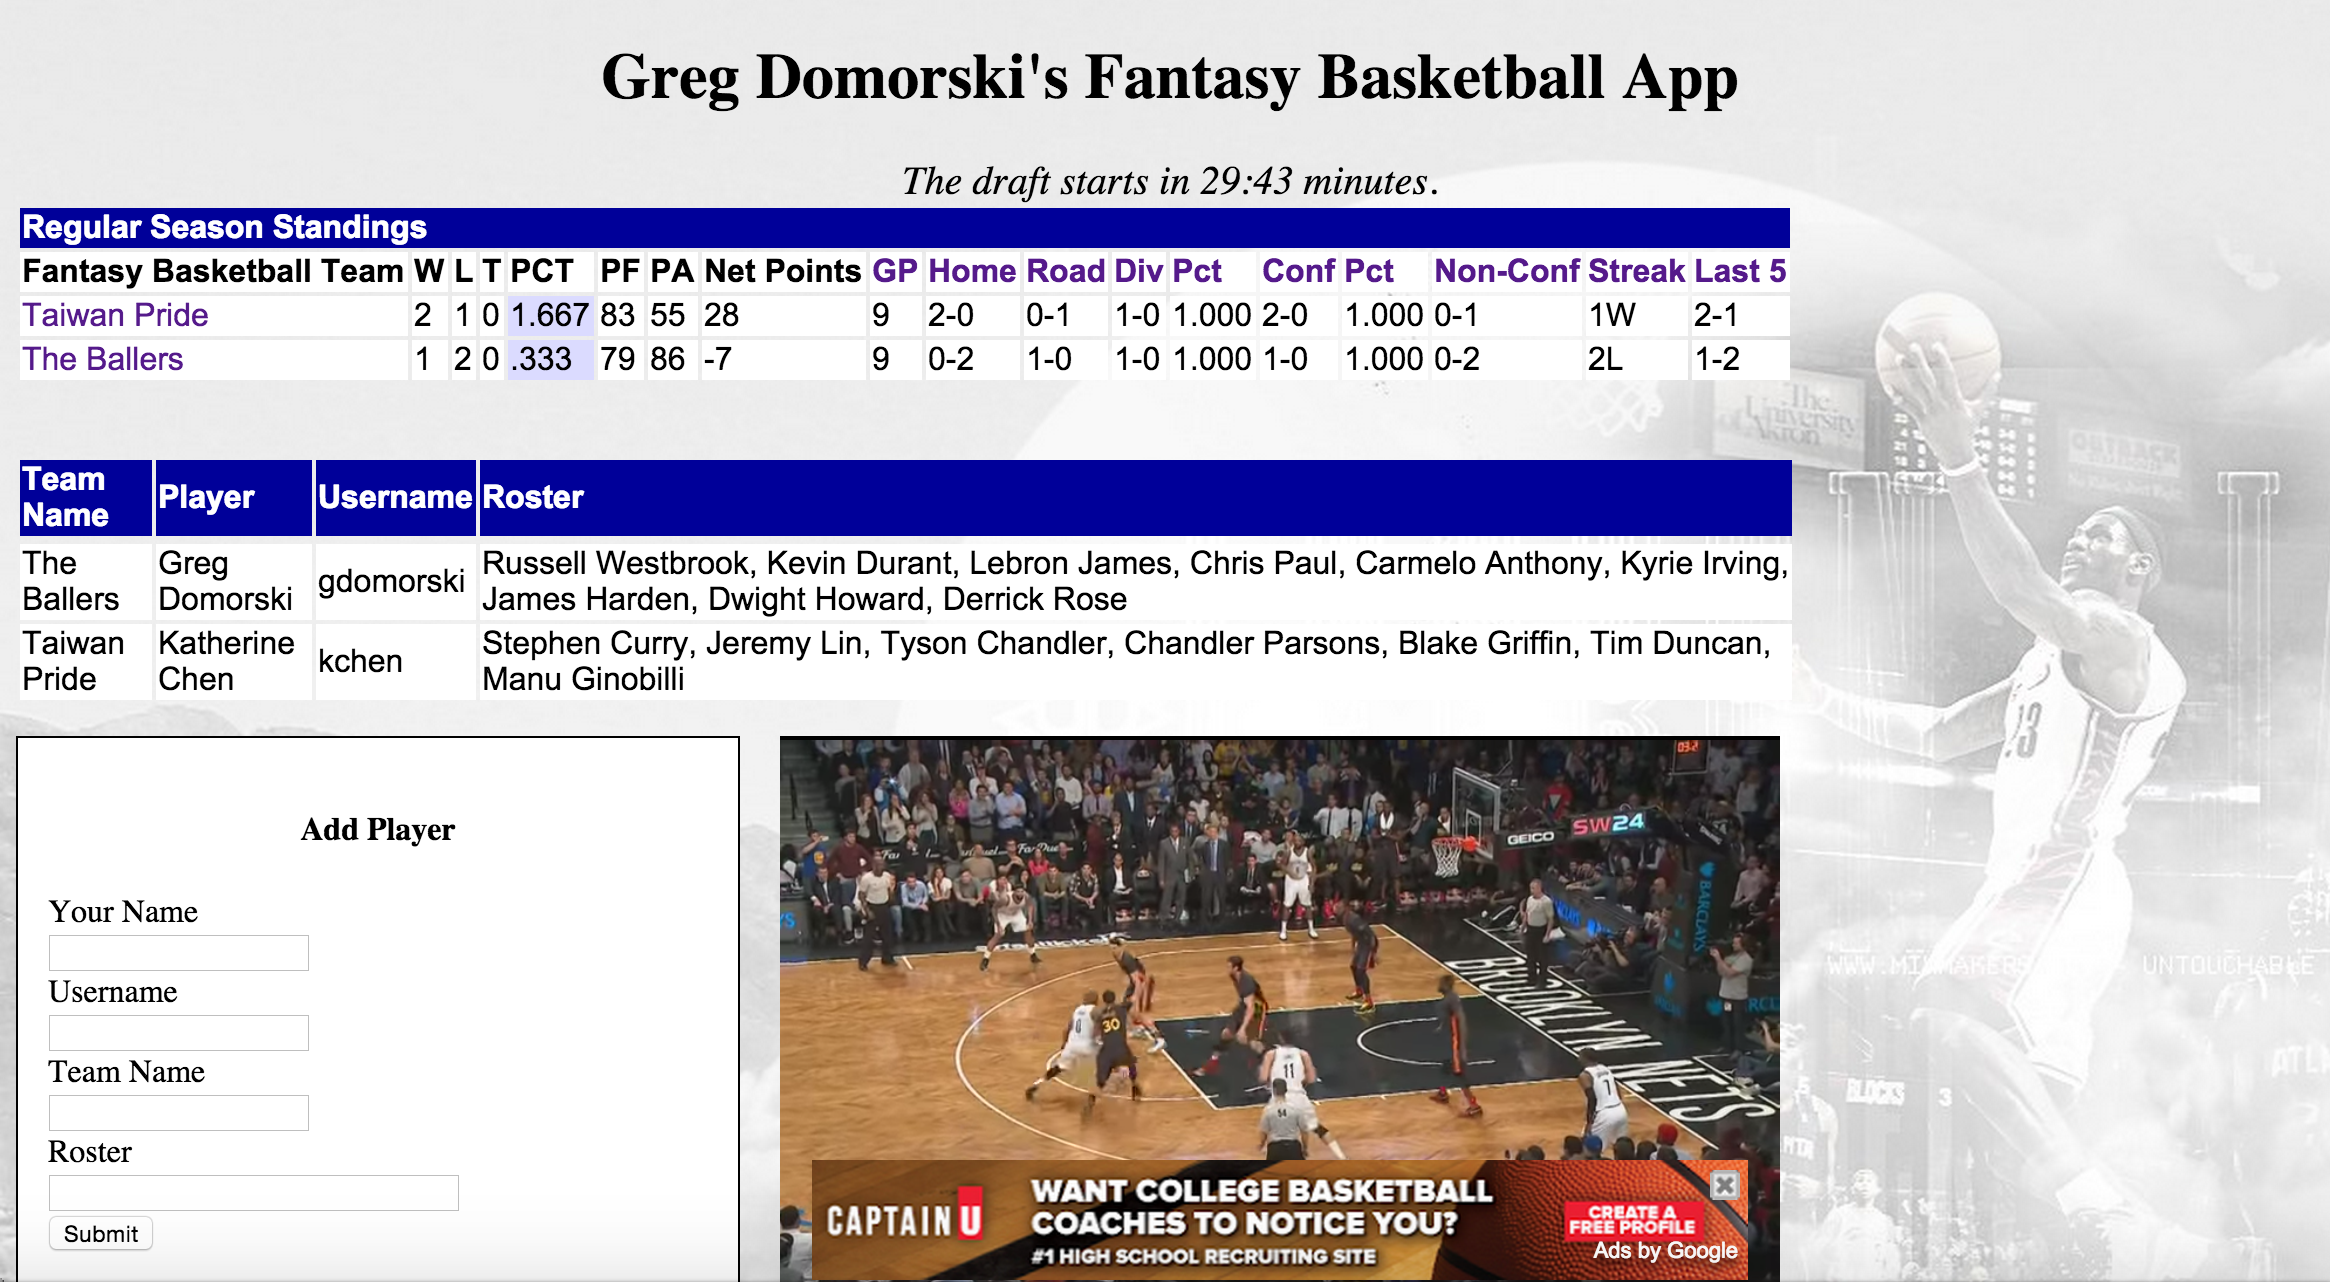
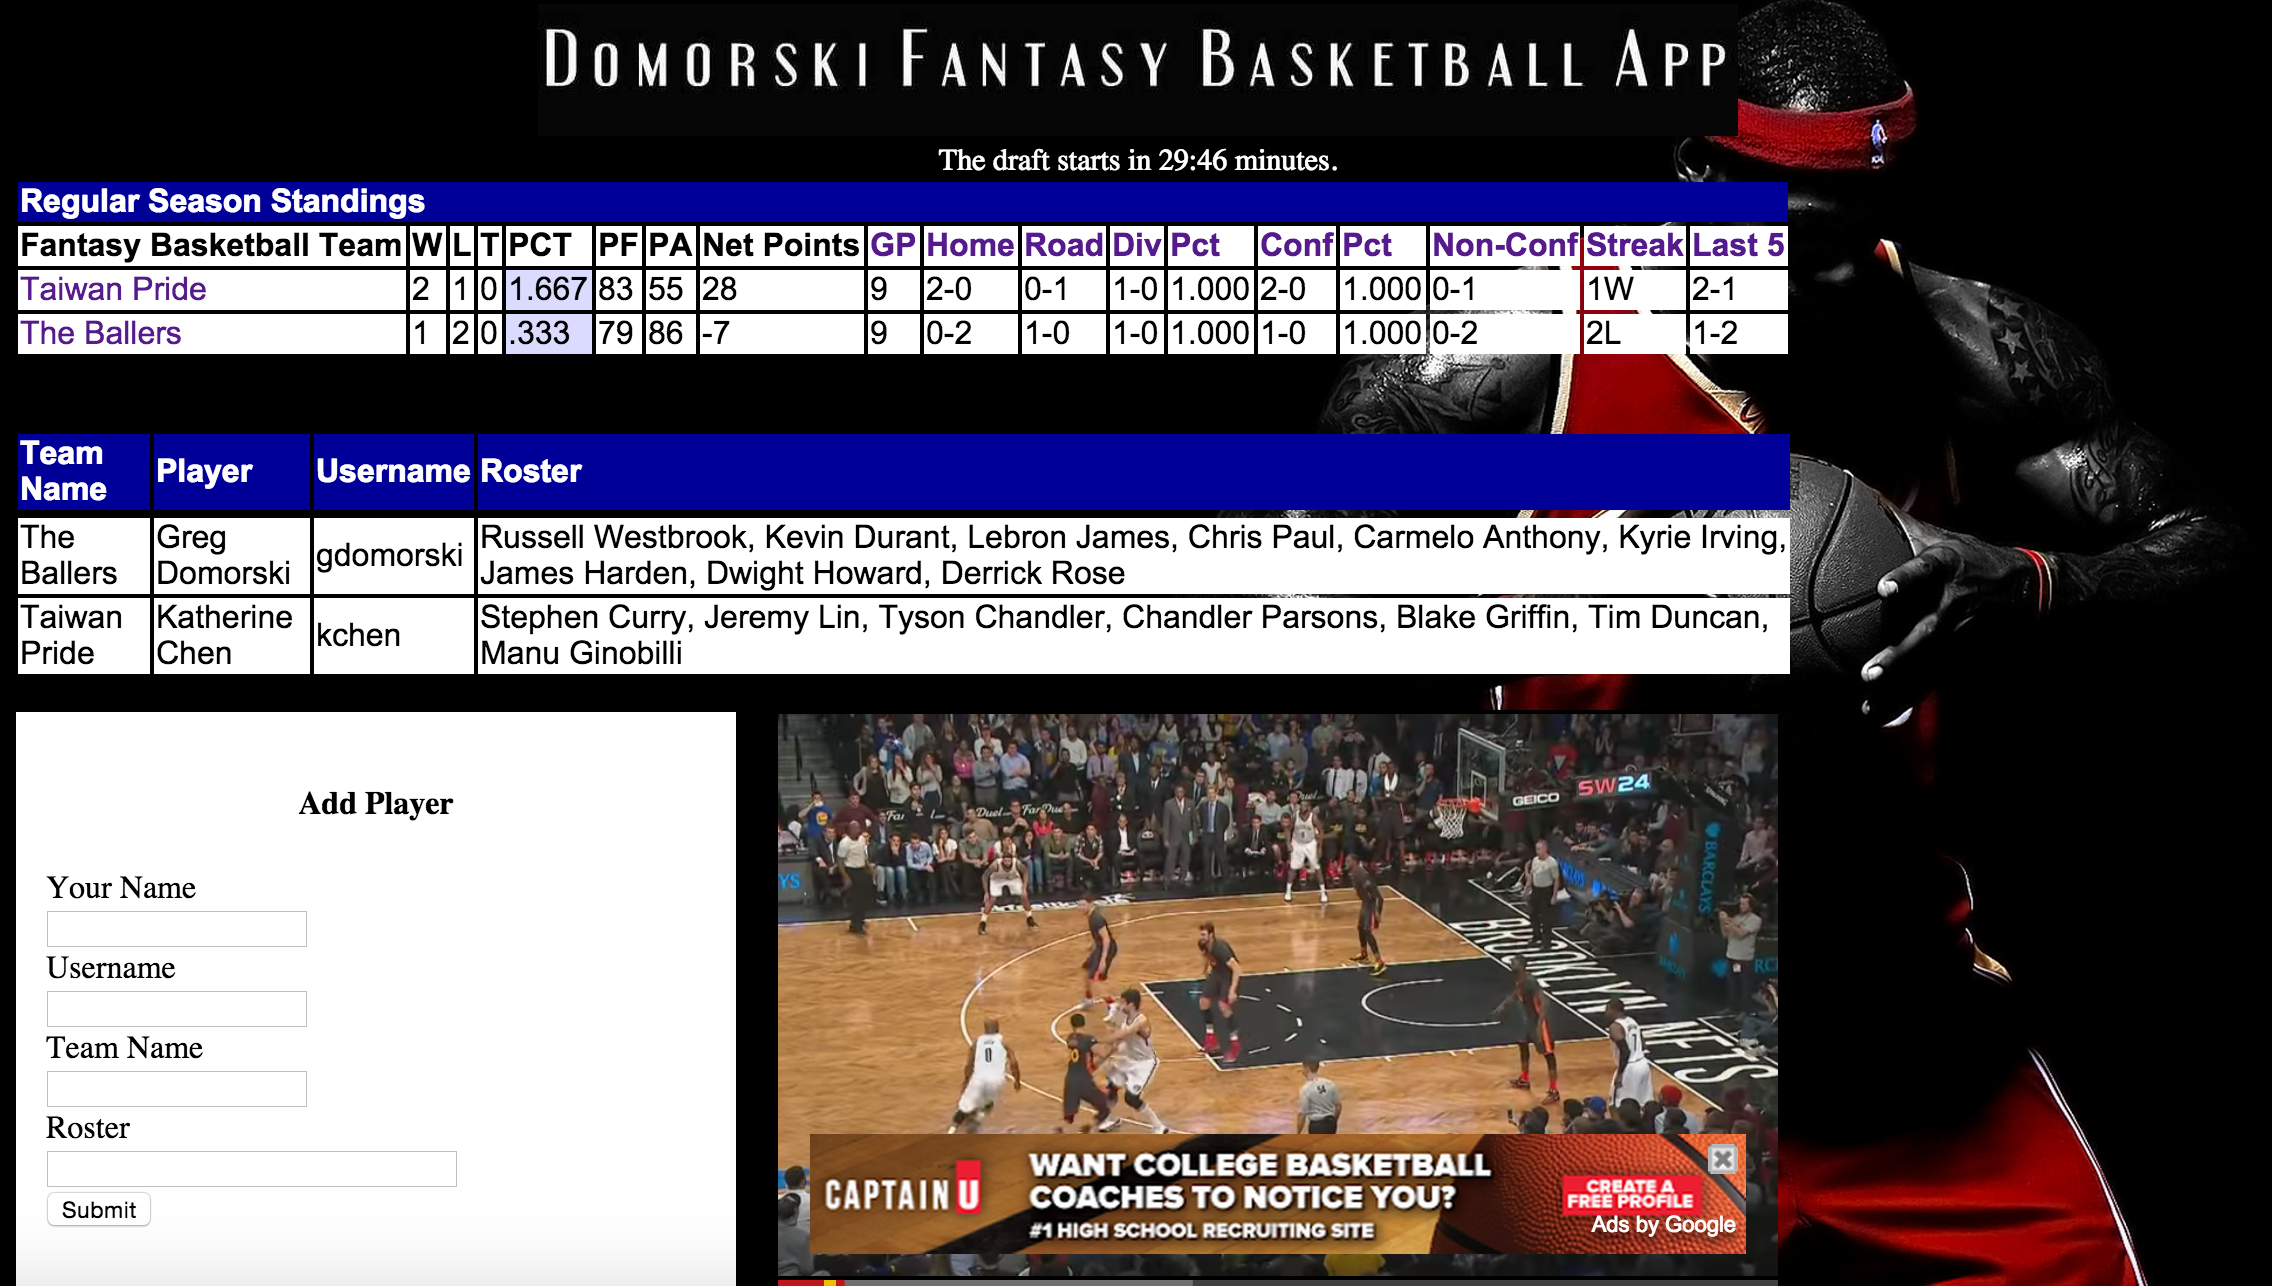
new features

diff --git a/gdomorskifantasybasketball.html b/gdomorskifantasybasketball.html
@@ -1,8 +1,10 @@
 <!DOCTYPE html>
-<html> 
+<html data-ng-app="practiceApp"> 
 <head> 
 <title>Greg Domorski's Fantasy Basketball App</title>
+</script>
 <script src="https://ajax.googleapis.com/ajax/libs/jquery/2.1.3/jquery.min.js"></script>
+
 <script type="text/javascript">
   $(window).load(function() {
     $(".loader").fadeOut("slow");
@@ -17,10 +19,10 @@
 
 <link rel="stylesheet" href="gdomorskibasketball.css">	
 </head>
-<body BACKGROUND="hoopswallpaper.jpg">
+<body>
 
+<center><img src="logo.jpg" style="width:600px;height:120;"</img></center>
 
-<center><h1>Greg Domorski's Fantasy Basketball App</h1></center>
 <div class="timer">The draft starts in <span id="time">30:00</span> minutes.</div>
 
  <audio id="soundbar" src="draftsound.mp3" preload="auto"> </audio>
@@ -124,7 +126,7 @@
 
 	
 
-   
+
 
 <script> 
 
@@ -195,13 +197,82 @@ sample.play();
 
 
 
+ 
+ 
 
 </script> 
+
+
+<script src="../angular.min.js">
+ var practiceApp = angular.module('practiceApp', []);
+
+
+
+
+  var controllers = {};
+  
+  controllers.CEOController = function ($scope){
+    $scope.ceos = [ 
+    {name:'David M. Zaslav', company: 'Discovery Communications, Inc.', compensation: '$156,077,912'},
+    {name:'Mario J. Gabelli', company: 'Gamco Investors, Inc. Et Al', compensation: '$88,518,411'},
+    {name:'Satya Nadella', company: 'Microsoft Corp', compensation: '$84,308,755'}, 
+    {name:'Lawrence J. Ellison', company: 'Oracle Corp', compensation: '$67,261,251'}, 
+    {name:'Jon Feltheimer', company: 'Lions Gate Entertainment Corp', compensation: '$63,601,493'}, 
+    {name:'T.M. (Roe) Patterson', company: 'Basic Energy Services Inc', compensation: '$62,863,840'},
+    {name:'Steven M. Mollenkopf', company: 'Qualcomm Inc', compensation: '$60,740,592'}, 
+    {name:'Leslie Moonves', company: 'CBS Corp', compensation: '$57,175,645'},
+    {name:'Daniel R. Hesse', company: 'Sprint Corp', compensation: '$47,077,699'},
+    {name:'Robert A. Iger', company: 'Walt Disney Co', compensation: '$46,497,018'},
+    {name:'Philippe P. Dauman', company: 'Viacom Inc.', compensation: '$44,334,858'},
+    {name:'Joseph W. Brown', company: 'MBIA Inc', compensation: '$43,602,334'},
+    {name:'Marissa A. Mayer', company: 'Yahoo Inc', compensation: '$42,083,508'},
+    {name:'Leonard S. Schleifer, M.D., Ph.D', company: 'Regeneron Pharmaceuticals Inc', compensation: '$41,965,424'},
+    {name:'Mr. Joshua W. Sapan', company: 'AMC Networks Inc.', compensation: '$40,313,856'},
+    {name:'Marc Benioff', company: 'Salesforce Com Inc', compensation: '$39,907,534'},
+    {name:'John R Strangfeld', company: 'Prudential Financial Inc', compensation: '$37,483,092'},
+    {name:'Jeffrey R. Immelt', company: 'General Electric Co', compensation: '$37,250,774'},
+    {name:'Jeffrey M. Leiden', company: 'Vertex Pharmaceuticals Inc', compensation: '$36,635,468'}
+    ];
+  }
+
+
+  practiceApp.controller(controllers)
+</script>
+
+
+
+
+  <script src="../angular.min.js"></script>
+  
+  <script>
+
+  //you get access to the angular object, which has access to the angular module. The first parameter is the name of the module. The second is an array with a bunch of helper modules
+  var practiceApp = angular.module('practiceApp', []);
+
+
+
+
+  var controllers = {};
+  //add a CEO Controller to the controllers object. The $scope is the "glue" between the glue and the controller
+  controllers.CEOController = function ($scope){
+    $scope.ceos = [ 
+    {name: 'Lebron James', team: 'Cleveland Cavaliers', position: 'Forward'},
+    {name:'Stephen Curry', team: 'Golden State Warriors', position: 'Point Guard'},
+    {name:'Dwight Howard', team: 'Houston Rockets', position: 'Center/Power Forward'}, 
+   
+    ];
+  }
+
+
+  practiceApp.controller(controllers)
+
+  </script>
+
 
 <div class="loader"></div>
 <p>
 <p>
-<div class="newPlayer"  style="width: 330px">
+<div class="newPlayer" style="width: 330px; height:284px">
 
 <p>
 <center> <h4> Add Player </h4></center>
@@ -235,7 +306,21 @@ Roster
 
   <br />
     <br />
+
+
+  <div class="checkout" data-ng-controller="CEOController">
+  <h3><center>Player Ranker</center></h3>
+  Insert player name here: 
+  <input type="text" data-ng-model="name" /> 
     
-  
+
+  <div>
+    <ul>
+      <li data-ng-repeat="chiefs in ceos | filter:name | orderBy:compensation"> {{ chiefs.name }} - {{ chiefs.team }} - {{chiefs.position }}</li>
+    </ul>
+  </div>
+  </div>
+
+
 </body>
 </html>

diff --git a/gdomorskibasketball.css b/gdomorskibasketball.css
@@ -1,9 +1,15 @@
 
+html { 
+  background: url(basketballwallpaper.jpg) no-repeat center center fixed; 
+  -webkit-background-size: cover;
+  -moz-background-size: cover;
+  -o-background-size: cover;
+  background-size: cover;
+}
 
 
-
-body {
-	background-color: #fff9f1;
+.whitetext {
+	color: white;
 }
 
 .tableheaders {
@@ -32,15 +38,14 @@ body {
 }
 
 .timer {
-	font-size: 20px;
-	font-style: italic;
+	font-size: 15px;
 	text-align: center;
+	color: white;
 }
 
 #soundbar { 
 	display: none 
 }
-
 
 
 .headtable{
@@ -82,3 +87,13 @@ tr {
 #teamName{
 	text-align: left;
 }
+
+
+.checkout {
+  border-style: solid;
+  border-width: 1px;
+  padding: 15px;
+  width: 500px;
+  background: white ;
+}
+
